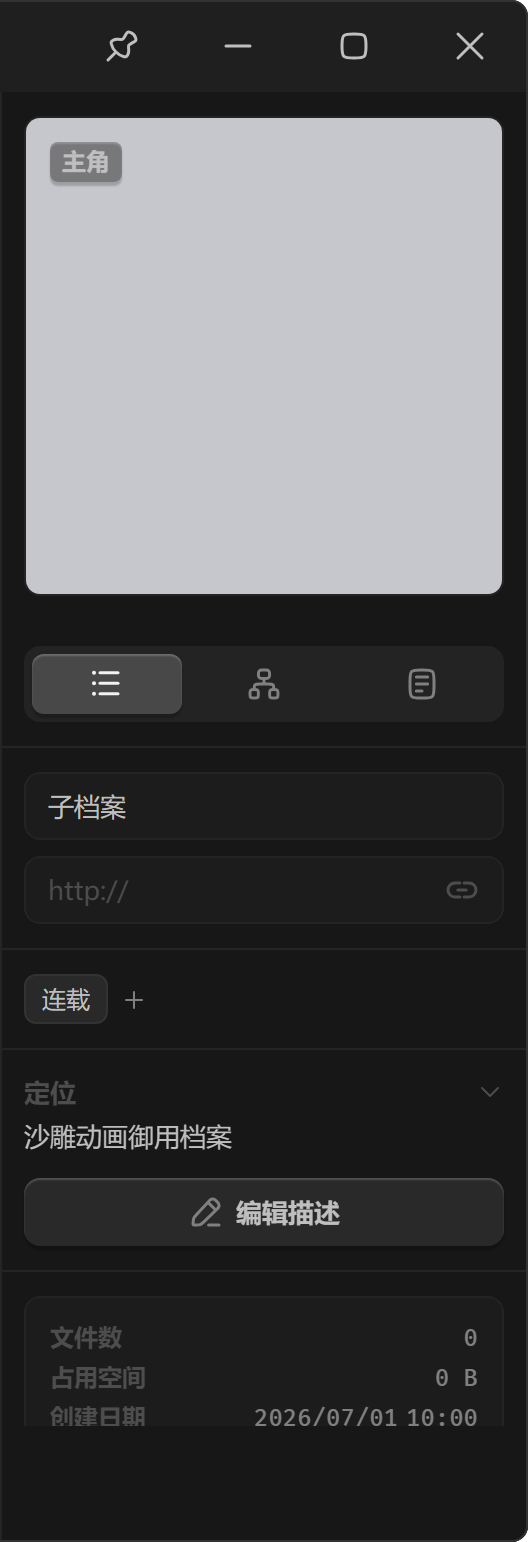
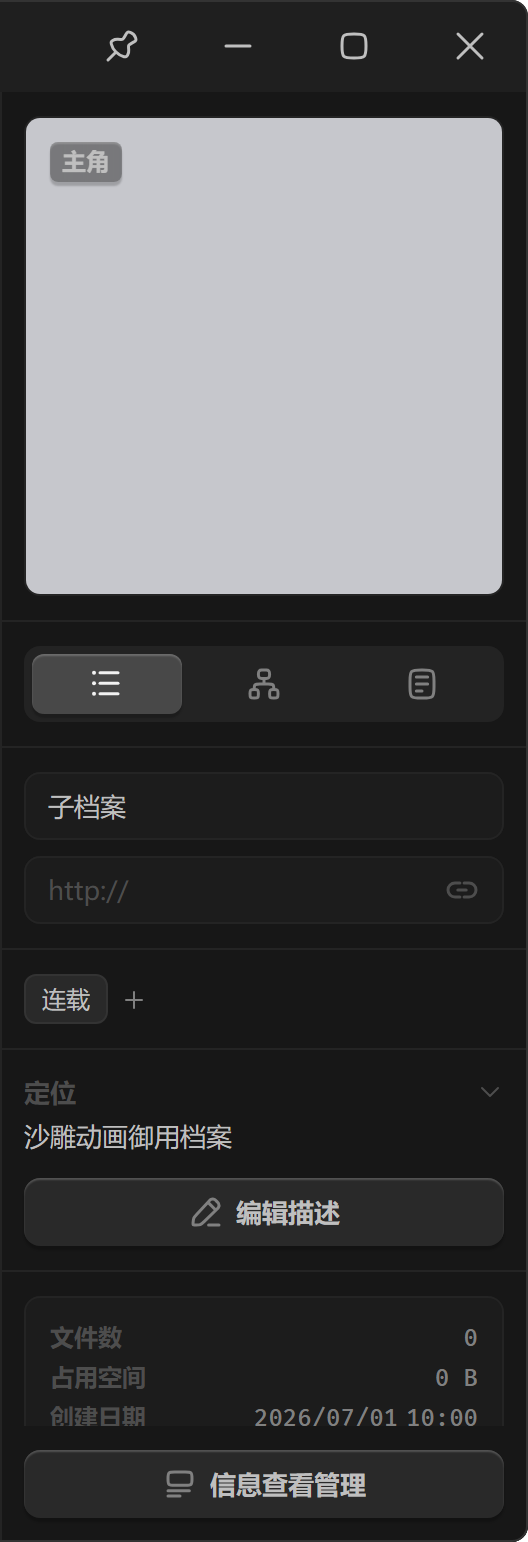
fix(右栏): 背景伪元素遮挡修复——aside isolation + ::before z-index -1 沉底，封面编辑按钮恢复可见（7.1 二十三轮走查三轮，踩坑 065）

diff --git a/src/components/SidebarRight.vue b/src/components/SidebarRight.vue
@@ -49,10 +49,15 @@ const picker = usePickerStore();
   flex: none;
   min-height: 0;
   overflow: hidden;
+  /* 自建层叠上下文：让 ::before 背景层 z-index -1 只在本栏内沉底（不依赖外层上下文状态） */
+  isolation: isolate;
 }
 /* g1 栏底 + 左缘 1px 通用/三级通栏分隔线下移伪元素、只画顶行以下（2026-08-31 用户实机定）：
    顶行 46（窗口控制行）不要底色——透主窗口云母/实色-1，与菜单栏、标签栏同一行连成一片；
-   aside 根不再挂 background/border-left（根挂 = 顶行也被盖成 g1 色块） */
+   aside 根不再挂 background/border-left（根挂 = 顶行也被盖成 g1 色块）。
+   **z-index: -1 必须**（同日实机 BUG：无 z-index 的 absolute 伪元素列于层叠第 6 层 = 定位元素档，
+   会盖住正常流内容（ActionButton / cs-slider 等无定位元素「能盲点但看不到」——pointer-events none
+   让 hit 穿透所致）；负 z-index + aside isolation 沉到正常流之下） */
 .sidebar-right::before {
   content: "";
   position: absolute;
@@ -60,6 +65,7 @@ const picker = usePickerStore();
   left: 0;
   right: 0;
   bottom: 0;
+  z-index: -1;
   background: var(--n-g1);
   border-left: 1px solid var(--n-g3);
   pointer-events: none;

diff --git a/tools/cdp-sidebar-right-probe.py b/tools/cdp-sidebar-right-probe.py
@@ -289,12 +289,15 @@ async def main():
                 "(() => { const a = document.querySelector('.sidebar-right');"
                 " const s = getComputedStyle(a);"
                 " const b = getComputedStyle(a, '::before');"
-                " return { bg: s.backgroundColor, bl: s.borderLeftWidth,"
-                "   pbg: b.backgroundColor, ptop: b.top, pbl: b.borderLeftWidth }; })()")
+                " return { bg: s.backgroundColor, bl: s.borderLeftWidth, iso: s.isolation,"
+                "   pbg: b.backgroundColor, ptop: b.top, pbl: b.borderLeftWidth, pz: b.zIndex }; })()")
             check("R4c 窗口控制区透窗口底（aside 根无底无线；::before 只画顶行 46 以下 g1 + 左缘 1px）",
                   isinstance(sr, dict) and sr.get("bg") == "rgba(0, 0, 0, 0)" and sr.get("bl") == "0px"
                   and sr.get("ptop") == "46px" and sr.get("pbg") != "rgba(0, 0, 0, 0)"
                   and sr.get("pbl") == "1px",
+                  json.dumps(sr))
+            check("R4c2 背景伪元素沉底（aside isolation isolate + ::before z-index -1——防盖正常流内容）",
+                  isinstance(sr, dict) and sr.get("iso") == "isolate" and sr.get("pz") == "-1",
                   json.dumps(sr))
 
             # ---------- R5 文件夹形态（点树 f1） ----------
@@ -552,13 +555,33 @@ async def main():
                 " const c = p.querySelector('.cover-settings');"
                 " const fr = p.querySelector('.cs-frame');"
                 " if (!c || !fr) return null;"
-                " return { done: p.style.height === '', pad: getComputedStyle(p).paddingLeft,"
+                " const kids = [...c.children].map(k => ({ cls: k.className.split(' ')[0],"
+                "   h: k.offsetHeight, disp: getComputedStyle(k).display }));"
+                " return { done: p.style.height === '', ovf: p.style.overflow, ph: p.style.height,"
+                "   pad: getComputedStyle(p).paddingLeft,"
                 "   inset: Math.round(fr.getBoundingClientRect().left - aside.getBoundingClientRect().left),"
-                "   slider: !!p.querySelector('.cs-slider'), btns: p.querySelectorAll('.cs-actions .act-btn').length }; })()")
+                "   slider: !!p.querySelector('.cs-slider'), btns: p.querySelectorAll('.cs-actions .act-btn').length,"
+                "   kids }; })()")
             check("R13c 封面编辑边距 = 栏缘 +12（pinned padding 12——双重 padding 24 修复）+ 动画收尾归位",
                   isinstance(cs, dict) and cs.get("done") is True and cs.get("pad") == "12px"
                   and cs.get("inset") == 12 and cs.get("slider") is True and cs.get("btns") == 2,
                   json.dumps(cs))
+            kids = cs.get("kids") if isinstance(cs, dict) else None
+            check("R13c2 封面编辑五件全显（框 240 / 滑块 10 / 更换封面 34 / 角标名 34 / 按钮组 34——不许被压没）",
+                  isinstance(kids, list) and len(kids) == 5
+                  and [k.get("h") for k in kids] == [240, 10, 34, 34, 34],
+                  json.dumps(kids))
+
+            # 封面编辑态截图留档（2026-08-31 ::before 遮挡 BUG 的像素级目验面——computed/几何断言
+            # 测不出层叠遮挡，必须截图目验：更换封面 / 取消·确认 / 底部信息查看管理钮可见）
+            shotc = await send(ws, "Page.captureScreenshot", {
+                "format": "png",
+                "clip": {"x": clip3["x"], "y": clip3["y"], "width": clip3["width"],
+                         "height": min(clip3["height"], 900), "scale": 2},
+            }, session=sess)
+            with open("tools/style-preview/r23c-cover-editing.png", "wb") as f:
+                f.write(base64.b64decode(shotc["result"]["data"]))
+            print("saved tools/style-preview/r23c-cover-editing.png")
             # 取消退回常态组（收起动画同路）——分拍读 height 排查收尾时机
             await ev("document.querySelector('.sidebar-right .cs-actions .act-btn').dispatchEvent(new MouseEvent('click', { bubbles: true }))")
             taps = []

diff --git a/docs/05_项目进度/00_当前状态.md b/docs/05_项目进度/00_当前状态.md
@@ -1,6 +1,6 @@
 > 任务完成即更新本文件。开发中发现的遗漏细节记入 [[09_待办细节清单]]，按迭代消化，不在代码里就地糊（见 01_开发规范 第 4 条）。
 
-- **阶段七 7.1 二十三轮同日 · 右侧边栏实机走查六条修复（2026-08-31，feat/new-ui，用户反馈逐条定案）**：① **tab 切换滑动动画**——侧栏分段切换范例同款时序（退 150ms 缓出 / 入 250ms 缓入 delay 100ms / 位移 48px / 离场 absolute），**方向恒定旧左出/新右入**（与左侧边栏统一；初版按 tab 序双向同日被用户否掉「语义不统一」），切 tab 滚动回顶，DetailSections 加 `.tab-pane` 包层（Transition 单子元素）；**流程级教训入 skill §4——稿 prose 提到动效必须同轮落地，禁静默省略**（用户原话「为啥每次都不主动去做动画效果」）。② **分段图标着色修复**——basic-info / link-relations / prompt 入库漏转 currentColor（figma 烘焙稿中状态色致 `.seg-item` color 驱动失效），三图标转换 + 命名对照八批登记 + skill §4 加「入库必查线条层色值」。③ **窗口控制区透窗口底**（用户：菜单栏/标签/窗口控制连起来）——`.sidebar-right` 根摘 background/border-left，g1 栏底 + 左缘 1px g3 改 `::before` 只画顶行 46 以下；附效 = 栏内容宽 263→264 与 detail-root 定宽齐平（原 1px 隐性裁剪消）。④ **封面编辑双重 padding 修复**（CoverSettings 根不自持 padding，挂载点 pinned 恒 12——6.1「防双重 padding」旧坑回潮）+ **展开/收起 250ms 缓入缓出高度补间**（pinned 根 FLIP，稿 prose「向下展开设置」；transitionend + timer 双通道收尾）。⑤ **链接 tab 五区块标题行恒渲染 + staticActions 常显**（折叠钮 + 动作组不随 hover；SectionTitle 扩 prop，速查表 §14 受控例外条——「标题上的添加按钮本身就是入口」）。⑥ **描述标题行收起 = 留一排截断正文**（line-clamp 1 自带省略号；3 行截断小字钮只在非收起态），PRD 03 描述条同步。**探针** cdp-sidebar-right-probe 追加 R4c/R7b/R8d/R10d/R10e/R13b-d 共 **38 项全 PASS** + r23/r23b 截图目验（顶行三连片 / 图标随态着色 / 链接 tab 标题行常显）；坑 = 动画断言勿遍历 styleSheets（vite dev 读不出）改 computed 级、收尾断言分拍读。vue-tsc 绿；后端零改动。**下一步：用户实机复验本轮六条（tab 滑动动画手感 / 封面展开动画 / 窗口控制区云母连片观感）；其后按 09 待办排期（预览族悬浮栏接入轮 / 筛选弹窗轮 / 信息查看管理面板轮 / 笔记区块补稿）**。
+- **阶段七 7.1 二十三轮同日 · 右侧边栏实机走查六条修复（2026-08-31，feat/new-ui，用户反馈逐条定案）**：① **tab 切换滑动动画**——侧栏分段切换范例同款时序（退 150ms 缓出 / 入 250ms 缓入 delay 100ms / 位移 48px / 离场 absolute），**方向恒定旧左出/新右入**（与左侧边栏统一；初版按 tab 序双向同日被用户否掉「语义不统一」），切 tab 滚动回顶，DetailSections 加 `.tab-pane` 包层（Transition 单子元素）；**流程级教训入 skill §4——稿 prose 提到动效必须同轮落地，禁静默省略**（用户原话「为啥每次都不主动去做动画效果」）。② **分段图标着色修复**——basic-info / link-relations / prompt 入库漏转 currentColor（figma 烘焙稿中状态色致 `.seg-item` color 驱动失效），三图标转换 + 命名对照八批登记 + skill §4 加「入库必查线条层色值」。③ **窗口控制区透窗口底**（用户：菜单栏/标签/窗口控制连起来）——`.sidebar-right` 根摘 background/border-left，g1 栏底 + 左缘 1px g3 改 `::before` 只画顶行 46 以下；附效 = 栏内容宽 263→264 与 detail-root 定宽齐平（原 1px 隐性裁剪消）；**同日三轮修遮挡 BUG（用户实机报「封面编辑按钮看不到但能盲点」）**——`::before` 无 z-index 的 absolute 伪元素列层叠第 6 层盖正常流内容（ActionButton 等无定位元素全被 g1 盖，pointer-events none 让 hit 穿透），修法 = aside `isolation: isolate` + `::before z-index: -1` 沉底（踩坑 065），探针补 R4c2 沉底断言 + R13c 封面编辑态截图目验（五件 + 管理钮全可见）。④ **封面编辑双重 padding 修复**（CoverSettings 根不自持 padding，挂载点 pinned 恒 12——6.1「防双重 padding」旧坑回潮）+ **展开/收起 250ms 缓入缓出高度补间**（pinned 根 FLIP，稿 prose「向下展开设置」；transitionend + timer 双通道收尾）。⑤ **链接 tab 五区块标题行恒渲染 + staticActions 常显**（折叠钮 + 动作组不随 hover；SectionTitle 扩 prop，速查表 §14 受控例外条——「标题上的添加按钮本身就是入口」）。⑥ **描述标题行收起 = 留一排截断正文**（line-clamp 1 自带省略号；3 行截断小字钮只在非收起态），PRD 03 描述条同步。**探针** cdp-sidebar-right-probe 追加 R4c/R7b/R8d/R10d/R10e/R13b-d 共 **38 项全 PASS** + r23/r23b 截图目验（顶行三连片 / 图标随态着色 / 链接 tab 标题行常显）；坑 = 动画断言勿遍历 styleSheets（vite dev 读不出）改 computed 级、收尾断言分拍读。vue-tsc 绿；后端零改动。**下一步：用户实机复验本轮六条（tab 滑动动画手感 / 封面展开动画 / 窗口控制区云母连片观感）；其后按 09 待办排期（预览族悬浮栏接入轮 / 筛选弹窗轮 / 信息查看管理面板轮 / 笔记区块补稿）**。
 
 - **阶段七 7.1 二十三轮 · 右侧边栏轮——窗口控制浮块贴稿 + 详情面板三 tab 化 + 文件夹详情形态 + 选择模式贴稿（2026-08-31，feat/new-ui，八问用户定案）**：**定案① 三 tab 化**——旧「pinned + 7 排序区块堆叠栈」废除：详情面板 = pinned 缩略图/封面区块（恒顶，240 方容器 + FormatBadge 左上 12/12 + ColorSwatchItem 颜色列表空态 7 占位）+ 分段控制器三段（basic-info/link-relations/prompt，默认基础信息 + 会话级记忆换选中回 basic）+ tab 内容区独立滚动（ScrollThumb）+ 底部「信息查看管理」钮（点亮不接业务——排序/显隐面板后续轮；**只链接 tab 五区块可拖标题行排序**（ui.detailLinksOrder 持久化），副本区块废除、笔记区块摘出待补稿）。**tab 内容**：基础信息 = 名称/链接 TextInput 只读（扩 trailingIcon）+ 属性 chips + 描述条目（expand 折叠钮）+ BaseDataItem 数据卡；链接关系 = 五区块（链接/音频/关系/缩略图/污染文件——后两个 UI 占位不接业务）+ items 族五件接线（旧 SectionLinks/Audio/Relations 业务零改移植）；提示词 = 只读编辑框 + 复制钮 + 五枚 IconButton solid（业务未立项全不接）。**定案② 窗口控制维持 App 浮块**贴稿（58×46 满格 hit 四钮 pin-on/minimize/maximize/close-large，hover 半透明-3、关闭 hover 禁止红，收展行为不变）；**③ 右栏收展钮恒显中间面板工具栏最右侧**（旧右栏 54 工具栏废除）；**④ 文件夹/快速访问详情形态新业务**——选中普通文件夹或视口未选中文件时显示文件夹/档案/视口信息（FolderDetail：folder-detail-panel 图标缩略图 + 名称/链接框只读 + 数据卡；快速访问简化版禁改名 + 文件数/占用空间；档案视口未选中回退 = 档案形态）；**⑤ 按钮序全局改「取消左/确认右」**（§1 口径废除主左次右，存量弹窗随轮翻转）；**⑥ 档案形态**三 tab 同构 + 封面设置组 CoverSettings 贴稿（240 方取景百分比化 / BarSlider tone=size 换 SideSlider / 角标名输入框——徽标颜色选择 UI 随新稿移除 / 取消左确认右）。**选择模式 PickerPanel 贴稿**：item 迁 PickFileItem/PickRelationItem（扩 v-model 接线 + pickedPlaceholder/disabled/closable），旧 54 标题栏/红删/缩略图左标/链接徽章废除。**旧件退役**：SectionCustom/Info/Empty/Links/Relations/Audio/SectionEditPanel 七件删除，detailSections.ts 收窄（注册表换 DETAIL_LINK_BLOCKS），ui store 双套配置废除非迁移。**探针** cdp-sidebar-right-probe 新写 **26 项全 PASS 一次通过**（四形态结构与数据行/tab 记忆/五区块序/关闭钮 hover 红等；素材卡选择走真实指针事件——gridPointerDown 不吃合成 click）；截图 r23-sidebar-right.png 目验。vue-tsc 绿；后端零改动。**遗留八笔见 09 待办当日条目**（信息查看管理面板/笔记补稿/缩略图·污染文件业务/link 钮剪贴板检测/提示词业务/全库按钮序翻转/picker legacy 探针适配/SideSlider 残留）。**下一步：预览族轮或筛选弹窗轮（按用户排期）**。
 

diff --git a/docs/02_样式与布局/03_新面板口径速查.md b/docs/02_样式与布局/03_新面板口径速查.md
@@ -280,5 +280,5 @@
 - **文件夹/快速访问详情形态（sections/FolderDetail，新业务行为）**：触发 = 选中普通文件夹（树/文件夹卡片），或**视口未选中任何文件时显示当前停留视口的文件夹/档案/快速访问信息**（同日用户定）。文件夹 = folder-detail-panel 装饰图标缩略图（240 方容器 padding 24）+ 名称/链接框（只读，链接无数据源留空占位）+ 数据卡 4 行（文件数 count / 档案数 / 子文件夹数（直接子级按 kind 分流）/ 占用空间 totalSize——添加日期 FolderNode 无字段不加）；**无分段控制器、无信息查看管理钮**（稿注）。快速访问 = 简化版：无缩略图 + 单名称框（固定文案不让改名）+ 数据卡两行（文件数 = 视口 Placement 清单长 / 占用空间按 assetId 去重合计）。档案视口未选中回退 = 档案形态（get_archive_data 按视口档案 id）。
 - **选择模式 PickerPanel 贴稿重构**：旧 54 标题栏「备选区」与 C3 底废除（随右栏 g1，栏容器 border-left 统一）；item 全迁 items/PickFileItem + PickRelationItem（两组件扩 v-model:name / update:fromLabel·toLabel / pickedPlaceholder / disabled / closable 业务接线）；红删 IconButton deleteRed 废除（关闭钮 close-small 恒显）；按钮栏 取消左确认右（§1 全局新口径）。业务逻辑零改。
 - **旧件退役**：SectionCustom / SectionInfo / SectionEmpty / SectionLinks / SectionRelations / SectionAudio / SectionEditPanel 删除（业务逻辑移植 TabBasic/TabLinks）；DetailNotes 笔记区块摘出待补稿接回（用户定"笔记等我补"，09 待办）；SectionHeader 残留 = InboxDiskSection / MovePanel 两处随对应面板轮。
-- **同日实机走查六条修复（用户反馈逐条定案）**：① **tab 切换滑动动画**——侧栏分段切换范例同款（§20 时序四调定稿：退场 150ms 缓出先行 / 入场 250ms 缓入 delay 100ms / 位移 48px / 离场 absolute 不占位），**方向恒定 = 旧左出 / 新右入**（与左侧边栏统一——初版按 tab 序双向（fwd/back）同日被用户走查否掉：「语义不统一，看起来迷糊」）；切 tab 滚动回顶（会话记忆只记 tab 不记滚动位）；DetailSections 加 `.tab-pane` 包层（Transition 要求单子元素——TabBasic 等是多根组件）。② **分段图标烘焙色漏转坑**：basic-info / link-relations / prompt 入库时漏转 currentColor（figma 烘焙了稿中状态色——basic-info 恒一级、另两个恒三级，.seg-item color 驱动失效，表现 = 选中不变一级 / 未选中反亮）——命名对照八批登记；**错误信号：选中/未选中态图标色不随 CSS color 变 → 先查 svg 线条层是不是烘焙色值**。③ **窗口控制区透窗口底**（用户：「不要底色，用主窗口的云母，菜单栏/标签/窗口控制连起来」）：`.sidebar-right` 根不再挂 background/border-left——g1 栏底 + 左缘 1px g3 改 **`::before` 只画顶行 46 以下**（top 46 + pointer-events none），顶行 46 透云母/实色-1 与菜单栏、标签栏同行连片；附效 = border 不占布局，栏内容宽 263→264 与 detail-root 定宽齐平（原左缘 1px 隐性裁剪消）。④ **封面编辑双重 padding 修复 + 展开动画**：CoverSettings 根**不自持 padding**（挂载点 pinned 恒 12——「组件自带 padding + 挂载点也 padding」= 24 内收，6.1「防双重 padding」旧坑在重构时回潮）；**展开/收起 = pinned 根高度 FLIP 补间 250ms 缓入缓出**（--n-dur-250 + --n-ease-in-out 字面量同步，稿 prose「向下展开设置」；翻转前后实测补间 + overflow 锁裁剪呈向下展开观感；transitionend + timer 290ms 双通道收尾，expandAnim 同款手法）。⑤ **链接 tab 五区块标题行恒渲染 + staticActions 常显**（用户：「没有内容标题也要在，标题上的添加按钮本身就是一个入口」）——见 §14 SectionTitle 条受控例外。⑥ **描述标题行收起 = 留一排截断正文**（-webkit-line-clamp 1 自带省略号；用户：「收起只留标题完全不知道写的什么，没法判断要不要展开」）；3 行截断 + 展开/收起小字钮（6.1 口径）只在非收起态出现，measure 判定对收起态保持旧值。
+- **同日实机走查六条修复（用户反馈逐条定案）**：① **tab 切换滑动动画**——侧栏分段切换范例同款（§20 时序四调定稿：退场 150ms 缓出先行 / 入场 250ms 缓入 delay 100ms / 位移 48px / 离场 absolute 不占位），**方向恒定 = 旧左出 / 新右入**（与左侧边栏统一——初版按 tab 序双向（fwd/back）同日被用户走查否掉：「语义不统一，看起来迷糊」）；切 tab 滚动回顶（会话记忆只记 tab 不记滚动位）；DetailSections 加 `.tab-pane` 包层（Transition 要求单子元素——TabBasic 等是多根组件）。② **分段图标烘焙色漏转坑**：basic-info / link-relations / prompt 入库时漏转 currentColor（figma 烘焙了稿中状态色——basic-info 恒一级、另两个恒三级，.seg-item color 驱动失效，表现 = 选中不变一级 / 未选中反亮）——命名对照八批登记；**错误信号：选中/未选中态图标色不随 CSS color 变 → 先查 svg 线条层是不是烘焙色值**。③ **窗口控制区透窗口底**（用户：「不要底色，用主窗口的云母，菜单栏/标签/窗口控制连起来」）：`.sidebar-right` 根不再挂 background/border-left——g1 栏底 + 左缘 1px g3 改 **`::before` 只画顶行 46 以下**（top 46 + pointer-events none），顶行 46 透云母/实色-1 与菜单栏、标签栏同行连片；附效 = border 不占布局，栏内容宽 263→264 与 detail-root 定宽齐平（原左缘 1px 隐性裁剪消）。**`::before` 必须 `z-index: -1` + aside `isolation: isolate`**（同日实机 BUG：absolute 无 z-index 伪元素列层叠第 6 层盖正常流内容——无定位元素（ActionButton / 滑块等）「能盲点但看不到」，pointer-events none 让 hit 穿透；computed/几何断言测不出层叠遮挡，改动背景层后必须截图目验按钮，踩坑 065）。④ **封面编辑双重 padding 修复 + 展开动画**：CoverSettings 根**不自持 padding**（挂载点 pinned 恒 12——「组件自带 padding + 挂载点也 padding」= 24 内收，6.1「防双重 padding」旧坑在重构时回潮）；**展开/收起 = pinned 根高度 FLIP 补间 250ms 缓入缓出**（--n-dur-250 + --n-ease-in-out 字面量同步，稿 prose「向下展开设置」；翻转前后实测补间 + overflow 锁裁剪呈向下展开观感；transitionend + timer 290ms 双通道收尾，expandAnim 同款手法）。⑤ **链接 tab 五区块标题行恒渲染 + staticActions 常显**（用户：「没有内容标题也要在，标题上的添加按钮本身就是一个入口」）——见 §14 SectionTitle 条受控例外。⑥ **描述标题行收起 = 留一排截断正文**（-webkit-line-clamp 1 自带省略号；用户：「收起只留标题完全不知道写的什么，没法判断要不要展开」）；3 行截断 + 展开/收起小字钮（6.1 口径）只在非收起态出现，measure 判定对收起态保持旧值。
 - **探针**：`cdp-sidebar-right-probe.py`（R1-R15 + 走查修复追加 R4c/R7b/R8d/R10d/R10e/R13b-d 共 **38 项全 PASS** + r23/r23b 截图；素材卡选择走真实指针事件 Input.dispatchMouseEvent 按下+抬起——gridPointerDown 不吃合成 click；tab 动画断言 = computed 级（类名 + duration/delay/easing/transform），勿遍历 styleSheets——vite dev 注入规则读不出，一轮 FAIL 实证）。

diff --git a/docs/06_踩坑记录.md b/docs/06_踩坑记录.md
@@ -463,3 +463,10 @@
 - **根因：** vite dev（v8.1.5，rolldown）的模块转换缓存失效依赖 fs watch 事件（chokidar）；agent 写盘方式（写临时文件 + 原子重命名）在 Windows 上 chokidar 漏 rename 事件——mtime 变了但无事件，vite 不重转（缓存被动失效，请求时不查 mtime）。
 - **解法：** agent 改完前端文件后、跑探针或让用户看 HMR 前，先 `touch` 改动文件；存疑时用 curl 拉 vite 编译产物 grep 新标志确认（style 子模块 = `/src/Xxx.vue?vue&type=style&index=0&scoped=<hash>&lang.css`）。
 - **预防：** 探针断言 FAIL 但代码明明已改时，先确认编译产物新旧再怀疑断言；探针复用用户 dev 实例（5373）时本坑生效，探针自起全新 vite 无此问题；实机验证让用户看效果前，确认 vite 终端已打 HMR 日志（或替用户 touch）。
+
+## 065 伪元素当背景层必须沉底：absolute 无 z-index = 层叠第 6 层盖正常流内容（2026-08-31）
+
+- **现象：** 7.1 二十三轮走查——右栏 g1 底色改 `::before` 只画顶行以下后，用户实机报封面编辑「更换封面 / 取消 / 确认」与底部「信息查看管理」钮**看不到但能盲点**（点「更换封面」位置菜单能弹出）。
+- **根因：** `::before { position: absolute }` 无 z-index → CSS 层叠第 6 层（z-index auto 定位元素档），绘制在正常流内容（第 3/5 层）之上 → 右栏所有无定位元素被 g1 伪元素盖住；`pointer-events: none` 让 hit 测试穿透 → 「能点不能看」。带 position 的元素（relative 的封面框 / 输入框 / 分段控制器 / tab 滚动区）同第 6 层且 DOM 序在后，侥幸可见——现象呈「部分元素消失」，极具迷惑性。
+- **修法：** aside 加 `isolation: isolate`（自建层叠上下文，不依赖外层上下文状态）+ `::before` 加 `z-index: -1`（沉到正常流之下）。
+- **预防：** ① 伪元素当背景层 = `isolation: isolate` + `z-index: -1` 配套写，别只写 absolute；② **computed 样式与几何断言测不出层叠遮挡**——元素在、尺寸对、就是被盖；改背景层/层叠结构后必须截图目验关键交互件（按钮！），探针 R13c 封面编辑态截图 + R4c2 沉底断言钉死。

diff --git a/docs/04_开发日志/2026-08-31.md b/docs/04_开发日志/2026-08-31.md
@@ -62,3 +62,5 @@
 **探针**：`cdp-sidebar-right-probe.py` 追加 R4c / R7b / R8d / R10d / R10e / R13b-d 共 **38 项全 PASS**；截图 `r23-sidebar-right.png`（档案形态整窗目验：顶行三连片 + 图标着色）+ `r23b-sidebar-links.png`（链接 tab 常显目验）留档。**探针坑**：tab 动画断言勿遍历 document.styleSheets（vite dev 注入规则读出一轮 FAIL），改 computed 级（类名 + duration/delay/easing/transform 实测）；动画收尾断言宜分拍读（单次 sleep 读撞 transitionend/timer 竞争边缘一轮 FAIL，分拍后稳）。vue-tsc 绿；后端零改动。
 
 **同日二轮修订（用户实机走查）**：tab 切换动画方向**改恒定旧左出 / 新右入**（与左侧边栏分段切换统一）——初版按 tab 序双向（fwd/back 与分段滑块同向）被否：「左侧边栏是恒定左出右入，这边统一一下，不然语义不统一，看起来挺迷糊的」。DetailSections 删方向计算（TAB_INDEX/tabShift），Transition 固定 `tab-x` 一套类；探针 R10e 断言同步，38 项全 PASS 复跑。
+
+**同日三轮（用户实机报「封面展开看不到按钮但能盲点」）**：根因 = 二轮窗口控制区透底引入的 `.sidebar-right::before` 背景层——absolute 无 z-index 伪元素列 CSS 层叠第 6 层（z-index auto 定位元素档），**盖在正常流内容之上**：右栏所有无定位元素（ActionButton 更换封面/取消/确认/信息查看管理、cs-slider 等）被 g1 伪元素盖住，`pointer-events: none` 让 hit 穿透 → 「能点不能看」；带 position 的元素（封面框/输入框/分段控制器/tab 滚动区 relative）同层 DOM 序在后侥幸可见，现象呈「部分消失」极具迷惑性。修法 = aside `isolation: isolate` + `::before z-index: -1` 沉底。探针补 R4c2 沉底断言 + R13c 封面编辑态截图（r23c-cover-editing.png 目验五件 + 管理钮全可见）——**computed/几何断言测不出层叠遮挡**，踩坑 065 新立。排查弯路：无头复现全正常（断言只查存在性/几何），用户一句「能盲点」定位到遮挡方向。另：探针复用用户 5373 dev 实例拿旧样式一轮 FAIL（踩坑 064 同款，touch 后过）。
